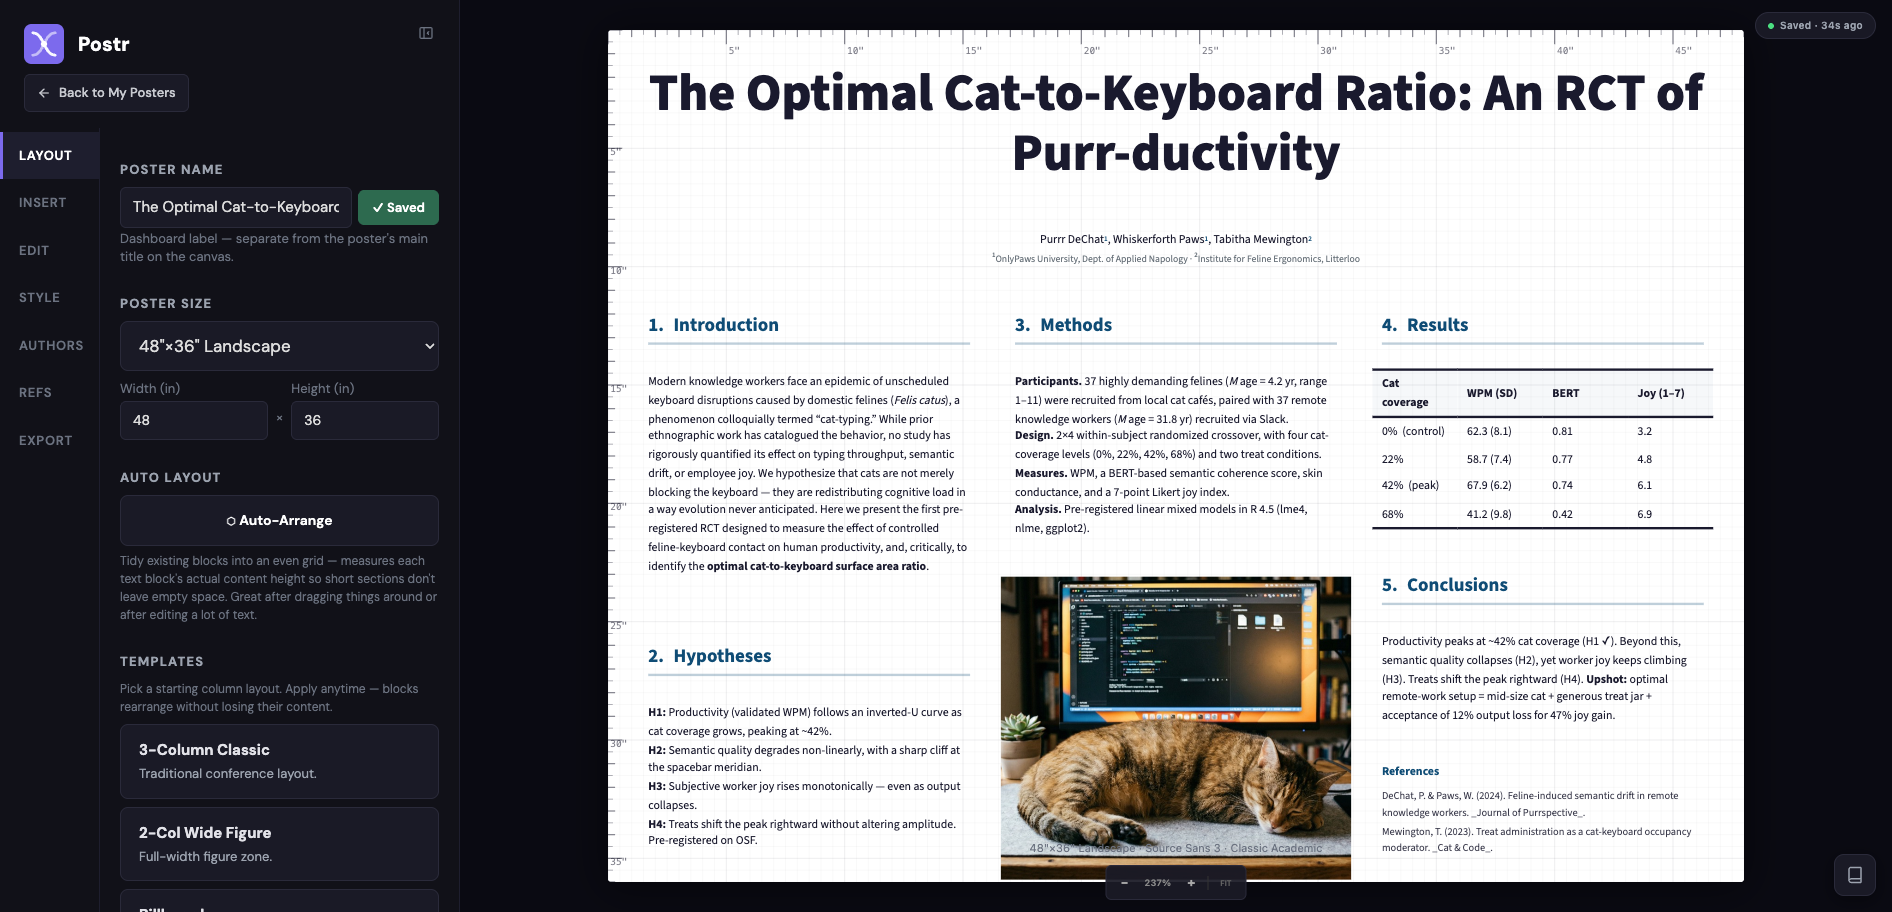
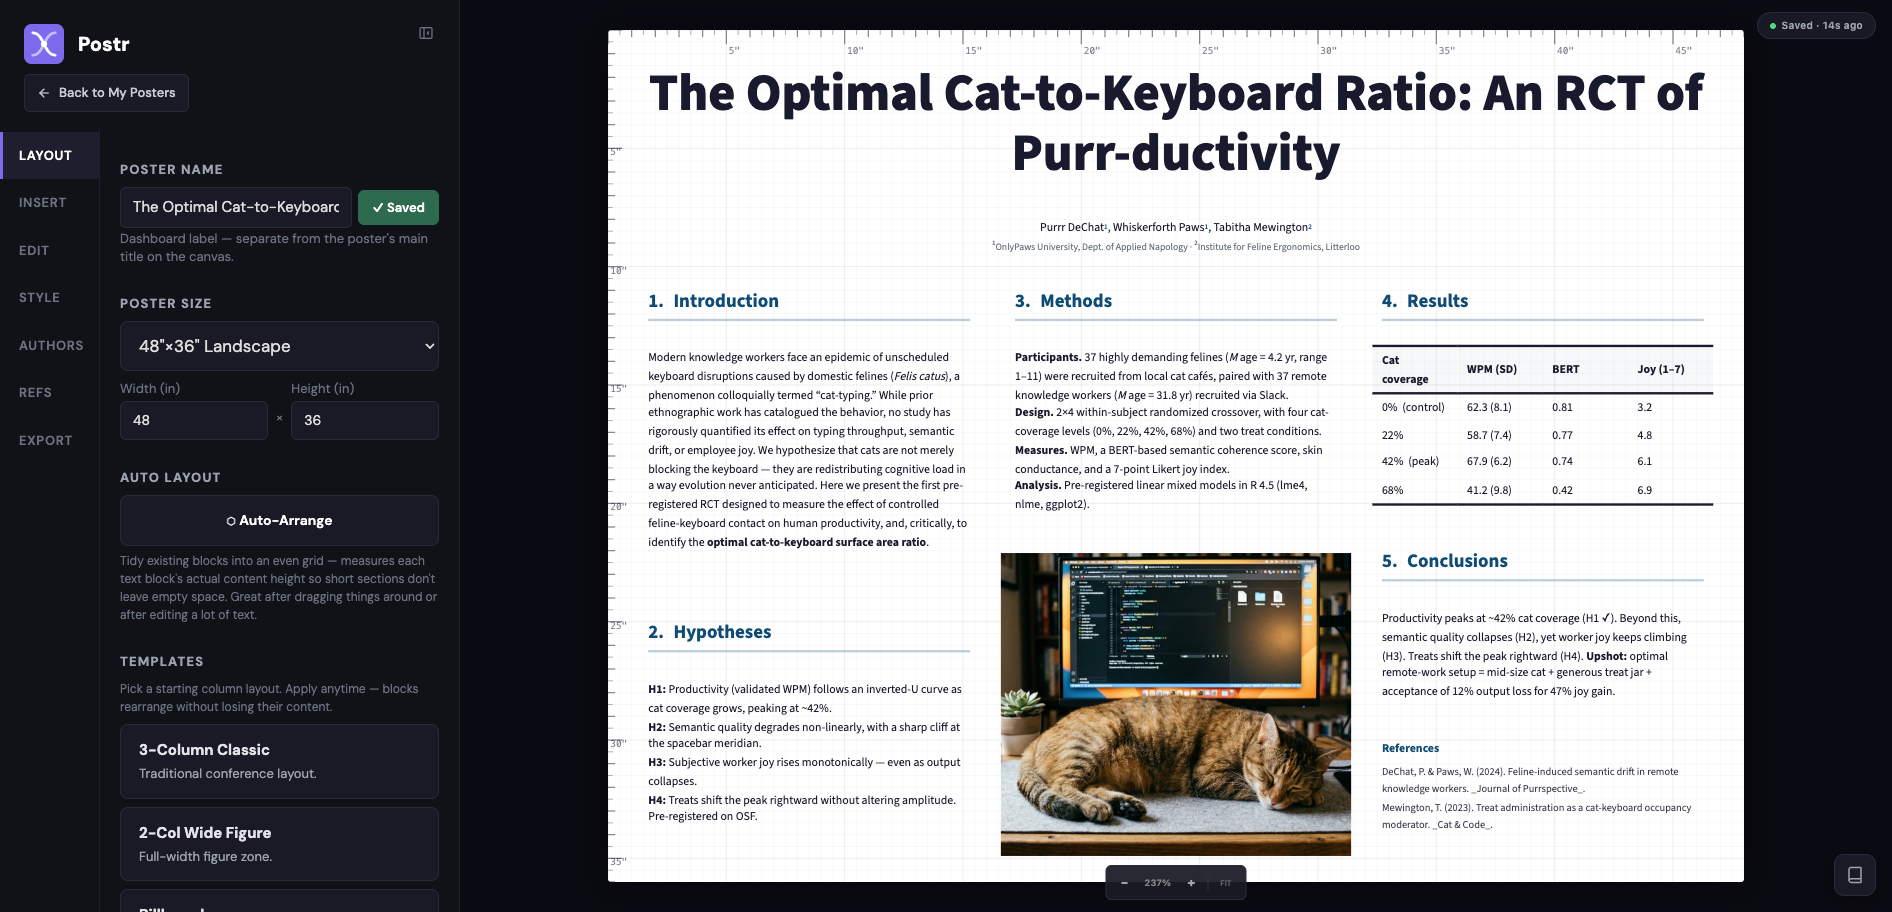
fix(editor): tighter header gap, remove poster info caption, test fixes
Four editor tweaks plus regenerated screenshots:

1. HEADER_GAP in autoLayout dropped from 5 to 2 poster units so
   title and authors read as a single header unit. With the old
   value the cat-RCT title sat ~15px above the authors line,
   visually disconnected from it — closer to a section break than
   a header. Now the gap matches the tight body spacing (~4px).

2. Removed the "48\"×36\" Landscape · Source Sans 3 · Classic
   Academic" floating caption that was pinned above the ZoomBar.
   It was visible in every screenshot and provided no information
   the user couldn't get from the sidebar. The space now belongs
   to the canvas outline and zoom controls alone.

3. Added `data-postr-canvas-outer` to the dark canvas wrapper div
   so Playwright / ux-persona-check flows can deselect blocks
   deterministically. The previous `#poster-canvas.click()`
   approach could miss because the click bubbled up to a handler
   whose ref wasn't easy to target from evaluate().

4. Updated autoLayout tests for the dynamic header layout: the
   old assertion `authors.y === 55 // snapped from 57` hid the
   fact that it only worked for title.h=45. The new tests cover
   both default-height and grown-height titles to lock in the
   "authors sits directly below title" behavior.

Regenerated social_media_content/* — cat image now shows cleanly
without any overlays in screenshots 1/2/4/5, handles visible only
in screenshot 3 (the handles shot), and no bottom caption on any.

Changed region(s): [[0.343, 0.2456, 0.9043, 0.9825], [0.343, 0.6754, 0.4989, 0.9211], [0.9355, 0.0, 0.9667, 0.0307]]

diff --git a/apps/web/src/poster/autoLayout.ts b/apps/web/src/poster/autoLayout.ts
@@ -44,22 +44,29 @@ export function autoLayout(
   // (the caller's probe may have grown it to accommodate a multi-line
   // title). Authors sits directly under the title — not at a hardcoded
   // y — so long titles no longer collide with the authors line.
+  //
+  // HEADER_GAP is intentionally tight (2 units ≈ 0.2") so the
+  // title/authors pair visually reads as one unit, matching the
+  // compact spacing of other stacked components. With the old
+  // hardcoded `snap(57)` + default `title.h = 45`, the implied gap
+  // was also 2 — we preserve that default while letting the gap
+  // scale correctly for longer titles.
   const titleBlk = headers.find((b) => b.type === 'title');
   const titleH = titleBlk ? titleBlk.h : 45;
-  const HEADER_GAP = 5; // breathing room between title and authors
+  const HEADER_GAP = 2;
   const authorsY = snap(M + titleH + HEADER_GAP);
   const pinnedHeaders = headers.map((b) => {
     if (b.type === 'title') return { ...b, x: M, y: M, w: canvasWidth - M * 2 };
     return { ...b, x: M, y: authorsY, w: canvasWidth - M * 2 };
   });
 
-  // Body starts below the full header stack (title + gap + authors
-  // + small pad). We compute this dynamically instead of the old
-  // hardcoded `HEADER_BOTTOM = 81` so long titles push everything
-  // else down together.
+  // Body starts below the full header stack (title + gap + authors)
+  // with a standard body margin `M` below the authors block. This
+  // replaces the old hardcoded `HEADER_BOTTOM = 81` so long titles
+  // push the body down in lockstep with the header grow.
   const authorsBlk = headers.find((b) => b.type === 'authors');
   const authorsH = authorsBlk ? authorsBlk.h : 20;
-  const headerBottom = authorsY + authorsH + HEADER_GAP;
+  const headerBottom = authorsY + authorsH;
 
   // Step 2: cluster body block x positions
   const uniqueXs = [...new Set(body.map((b) => b.x))].sort((a, b) => a - b);

diff --git a/apps/web/src/poster/__tests__/autoLayout.test.ts b/apps/web/src/poster/__tests__/autoLayout.test.ts
@@ -24,9 +24,11 @@ describe('autoLayout', () => {
     expect(result).toEqual(blocks);
   });
 
-  it('pins the title and authors blocks to the top', () => {
+  it('pins title at M and stacks authors directly under it', () => {
+    // Use h:45 for the title (matches the template default). With
+    // M=10 + titleH=45 + HEADER_GAP=2 = 57, snapped to 55.
     const blocks = [
-      block({ id: 't', type: 'title', x: 999, y: 999 }),
+      block({ id: 't', type: 'title', x: 999, y: 999, h: 45 }),
       block({ id: 'a', type: 'authors', x: 999, y: 999 }),
       block({ id: 'b1', type: 'text', x: 50, y: 200 }),
     ];
@@ -36,7 +38,24 @@ describe('autoLayout', () => {
     expect(title.x).toBe(10);
     expect(title.y).toBe(10);
     expect(authors.x).toBe(10);
-    expect(authors.y).toBe(55); // snapped from 57
+    expect(authors.y).toBe(55); // snap(10 + 45 + 2) = snap(57) = 55
+  });
+
+  it('pushes authors further down when the title has grown', () => {
+    // Simulates what happens after the probe in PosterEditor.tsx
+    // measures a long multi-line title and commits a larger h.
+    // Authors should sit directly under the larger title instead
+    // of at a hardcoded y=55, so long titles never collide with
+    // the authors line.
+    const blocks = [
+      block({ id: 't', type: 'title', x: 999, y: 999, h: 80 }),
+      block({ id: 'a', type: 'authors', x: 999, y: 999 }),
+      block({ id: 'b1', type: 'text', x: 50, y: 200 }),
+    ];
+    const result = autoLayout(blocks, 480, 360, DEFAULT_STYLES);
+    const authors = result.find((b) => b.id === 'a')!;
+    // snap(10 + 80 + 2) = snap(92) = 90
+    expect(authors.y).toBe(90);
   });
 
   it('detects column structure by clustering body block x positions', () => {

diff --git a/apps/web/src/poster/PosterEditor.tsx b/apps/web/src/poster/PosterEditor.tsx
@@ -1411,6 +1411,7 @@ export function PosterEditor() {
 
       <div
         ref={canvasRef}
+        data-postr-canvas-outer
         onClick={() => setSelectedId(null)}
         style={{
           flex: 1,
@@ -1686,30 +1687,6 @@ export function PosterEditor() {
               ))}
             </div>
           </div>
-        </div>
-
-        {/*
-          Poster info caption — pinned above the ZoomBar so the two
-          no longer overlap. The previous in-flow placement could be
-          occluded by the ZoomBar when the poster nearly filled the
-          canvas. Now it floats at a fixed 56 px above the bottom
-          (ZoomBar sits at bottom: 12 and is ~40 px tall).
-        */}
-        <div
-          style={{
-            position: 'absolute',
-            bottom: 56,
-            left: '50%',
-            transform: 'translateX(-50%)',
-            textAlign: 'center',
-            fontSize: 11,
-            color: '#6b7280',
-            fontFamily: 'system-ui',
-            pointerEvents: 'none',
-            whiteSpace: 'nowrap',
-          }}
-        >
-          {POSTER_SIZES[sizeKey]!.label} · {doc.fontFamily} · {palName || 'Custom'}
         </div>
 
         {/* OOB warning banner */}
